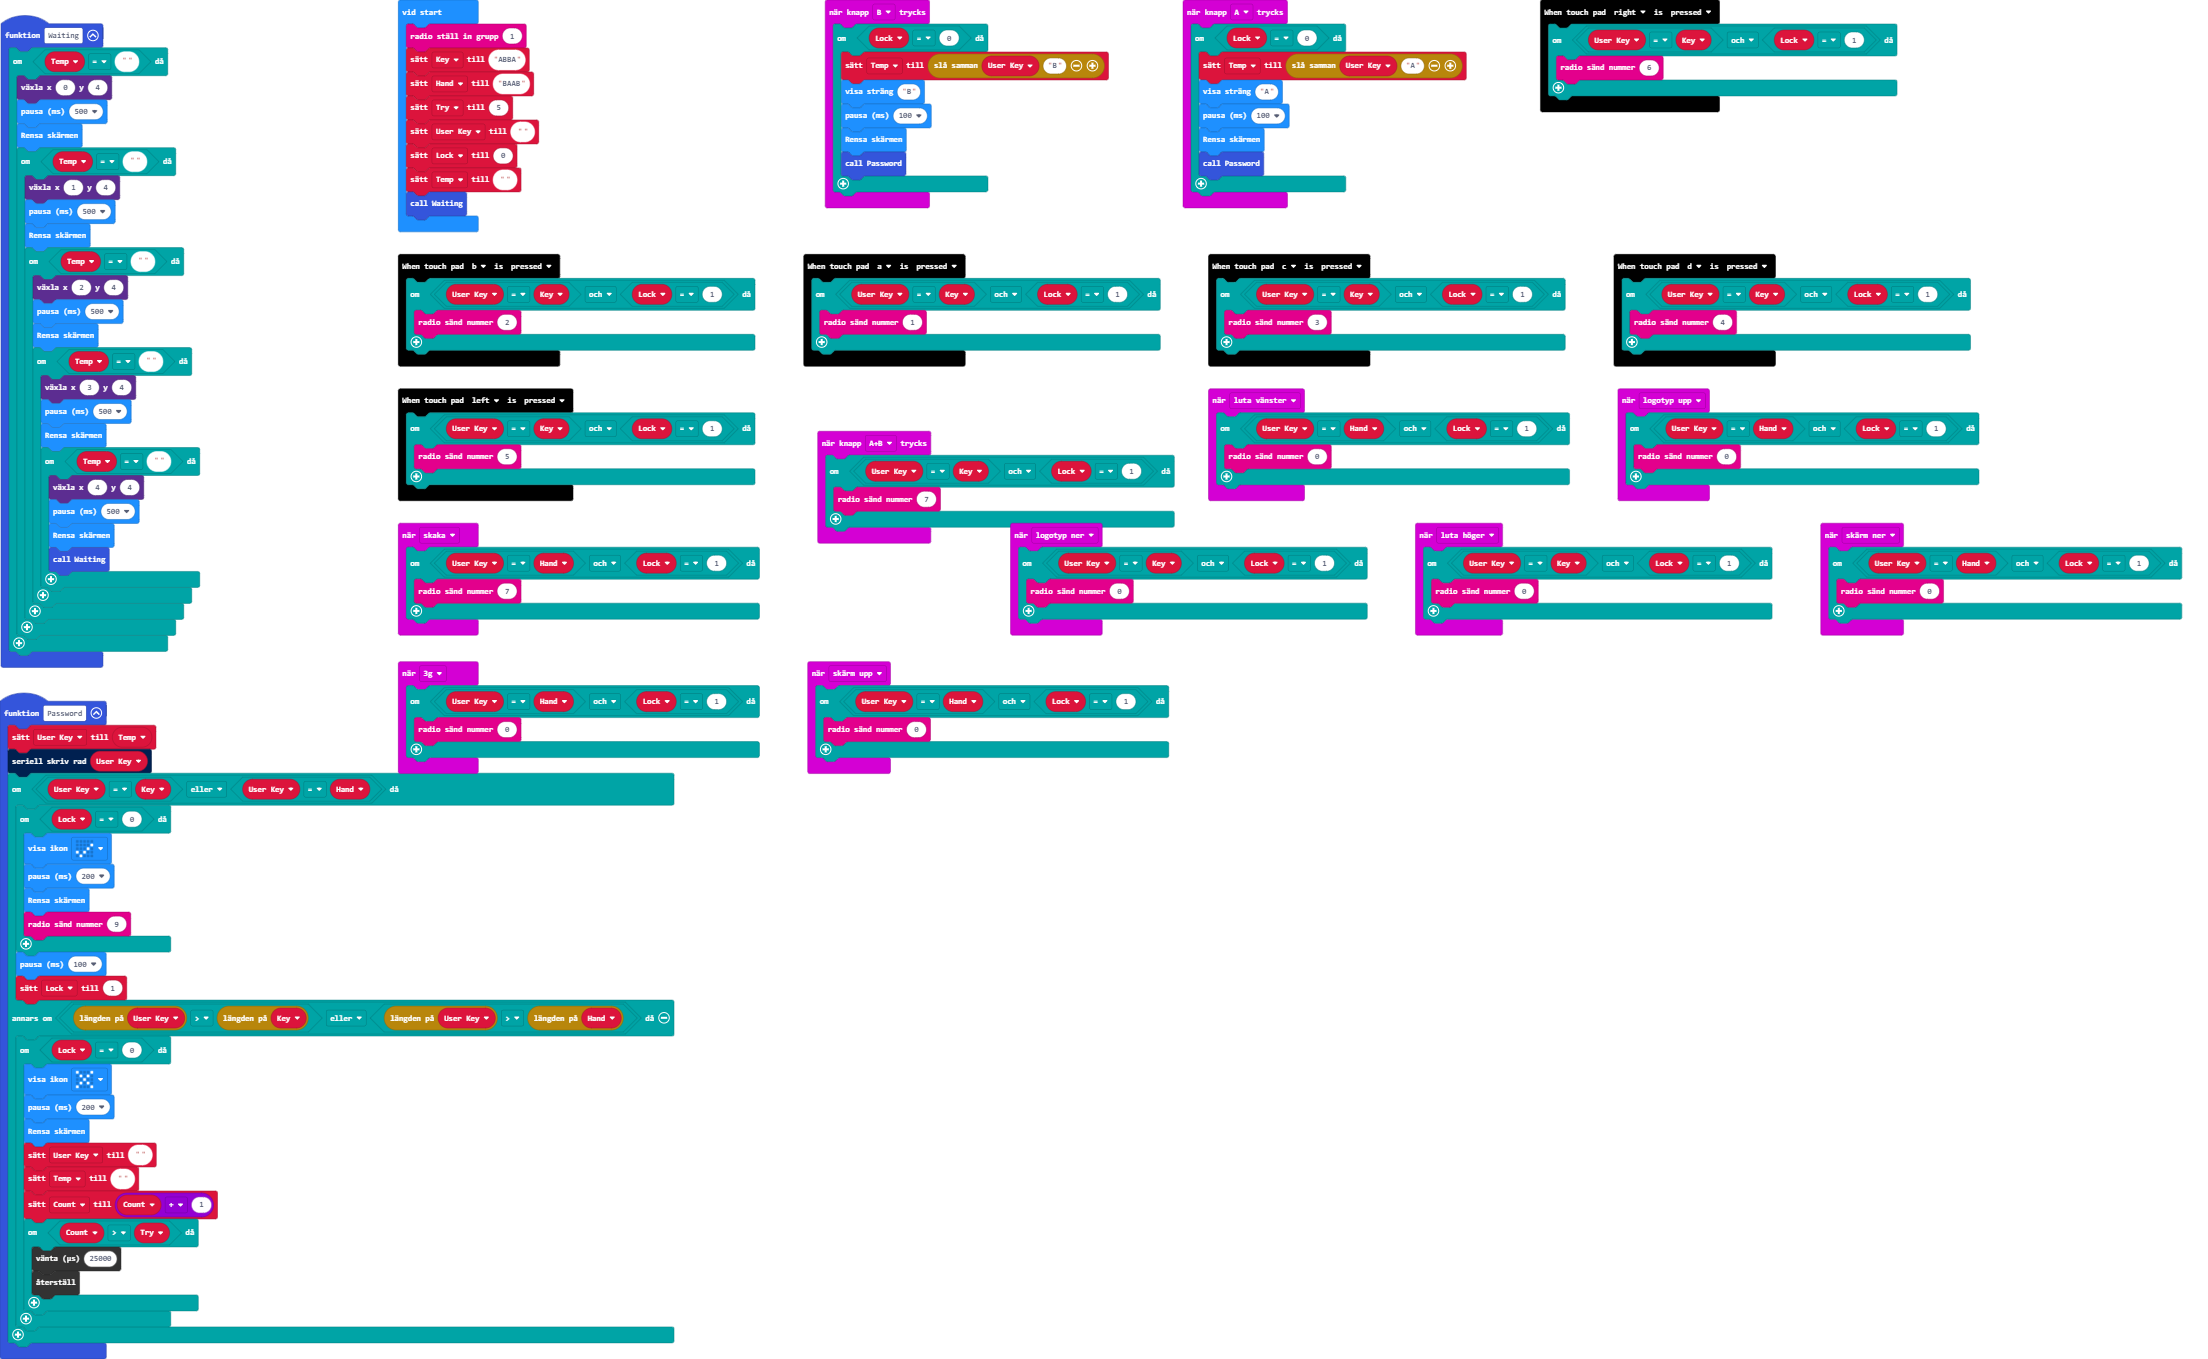
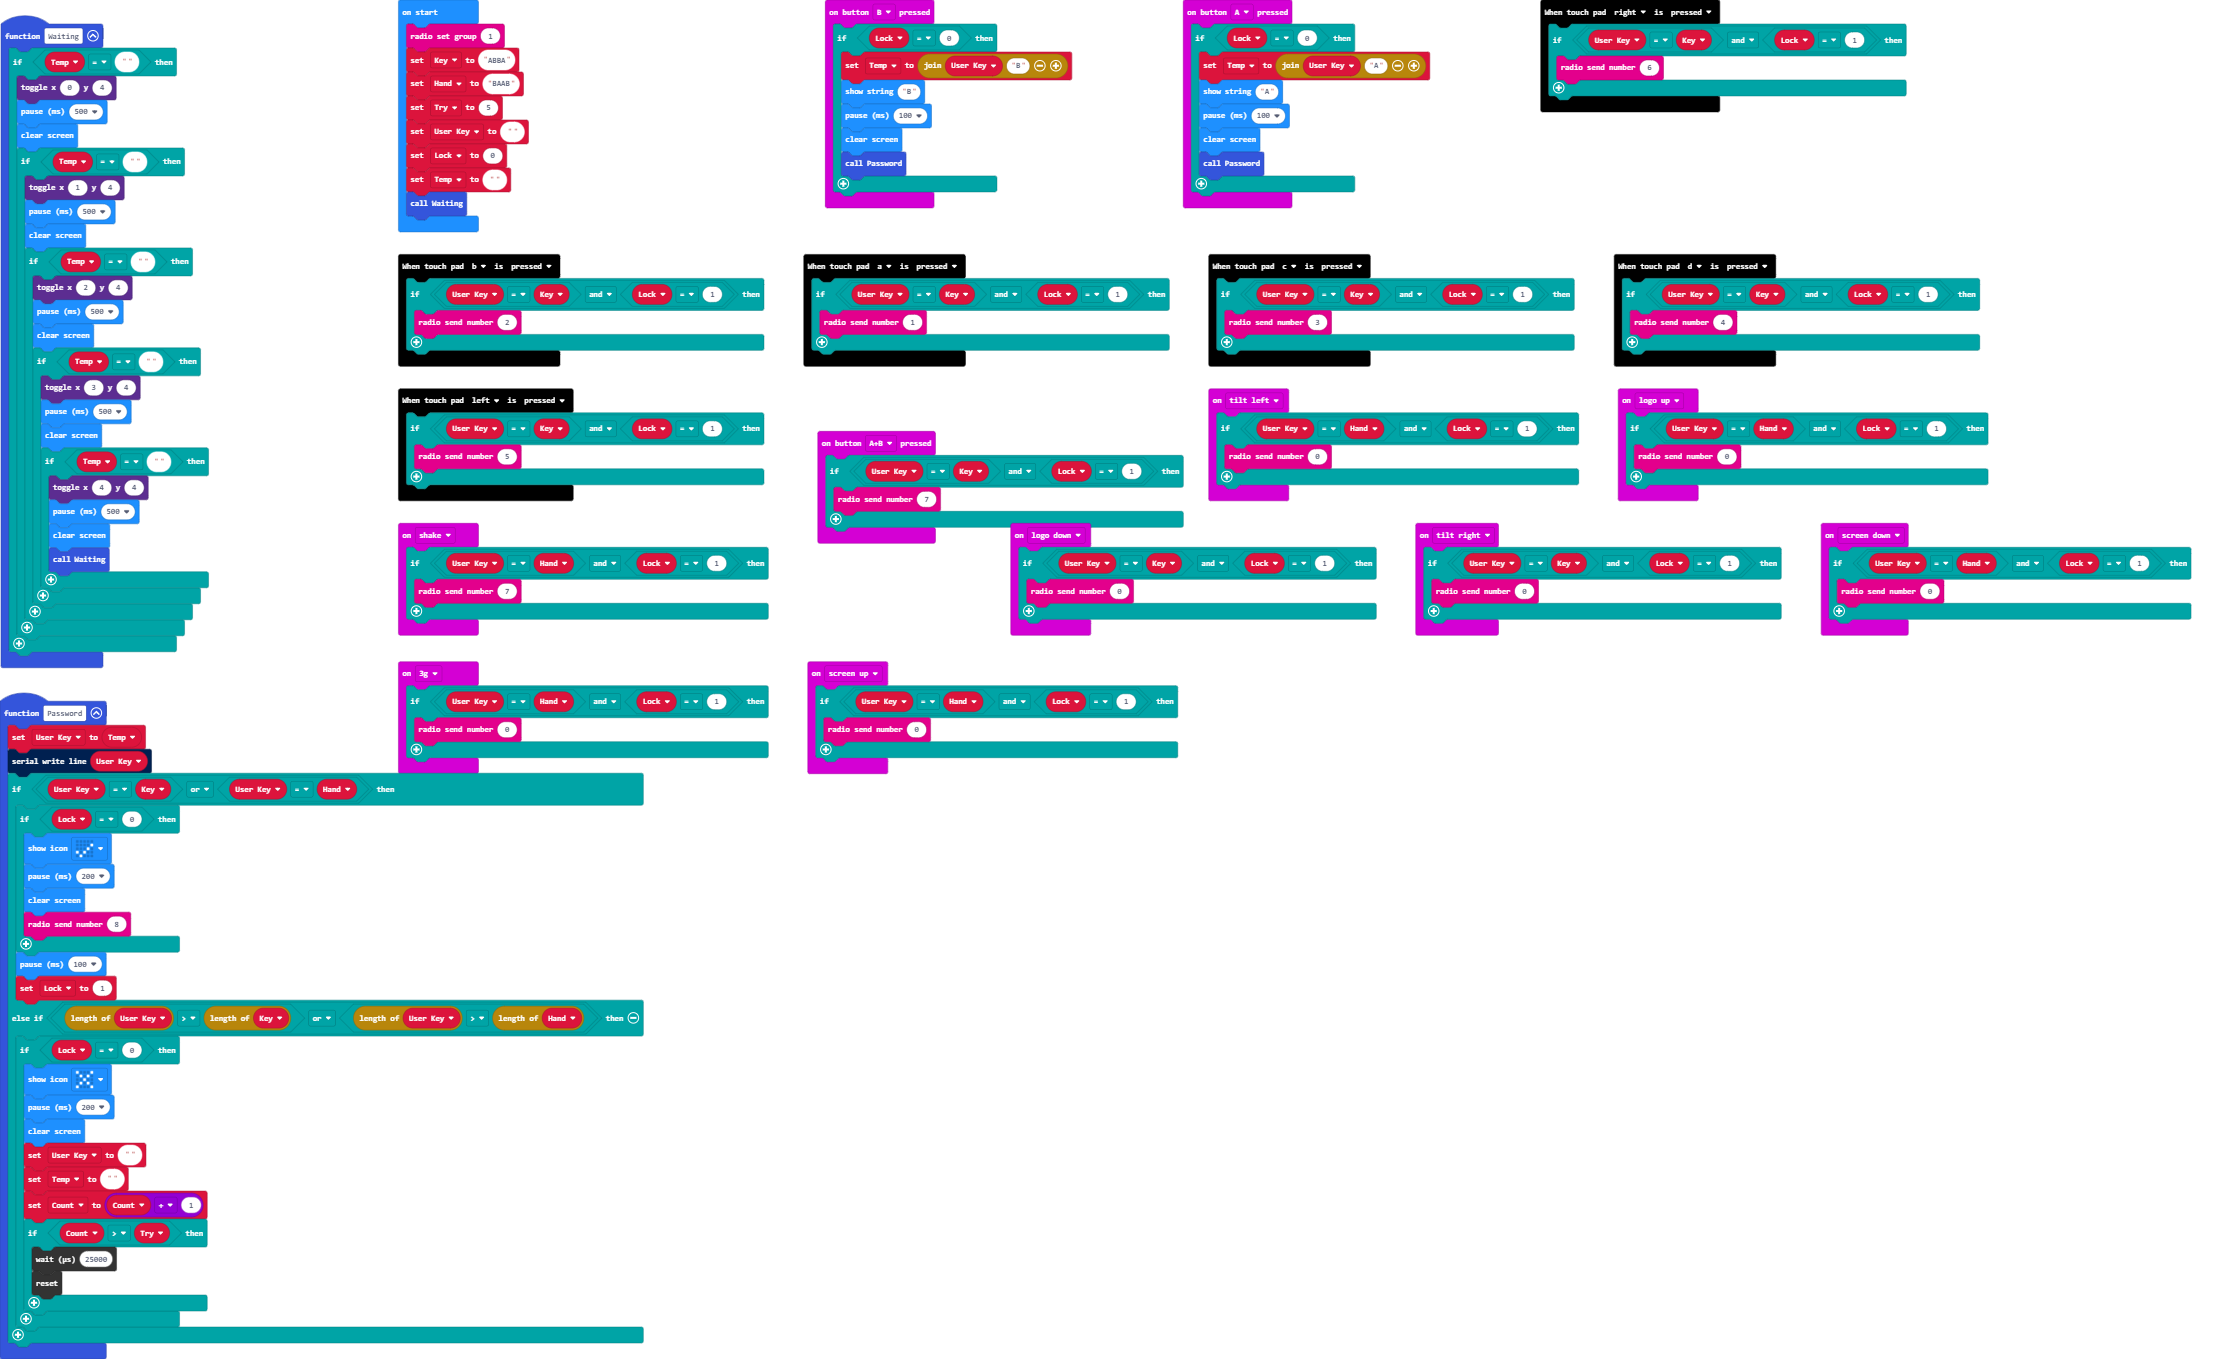
Update main.blocks, main.ts

diff --git a/main.ts b/main.ts
@@ -1,17 +1,12 @@
-input.onGesture(Gesture.TiltRight, function () {
-    if (User_Key == Key && Lock == 1) {
-        radio.sendNumber(0)
-    }
-})
 function Password () {
     User_Key = Temp
-    serial.writeLine("" + (User_Key))
+    serial.writeLine(User_Key)
     if (User_Key == Key || User_Key == Hand) {
         if (Lock == 0) {
             basic.showIcon(IconNames.Yes)
             basic.pause(200)
             basic.clearScreen()
-            radio.sendNumber(9)
+            radio.sendNumber(8)
         }
         basic.pause(100)
         Lock = 1
@@ -35,21 +30,6 @@ touchbit.on(touchbit.TouchPad.b, touchbit.TouchEvent.pressed, function () {
         radio.sendNumber(2)
     }
 })
-input.onGesture(Gesture.TiltLeft, function () {
-    if (User_Key == Hand && Lock == 1) {
-        radio.sendNumber(0)
-    }
-})
-input.onGesture(Gesture.ScreenUp, function () {
-    if (User_Key == Hand && Lock == 1) {
-        radio.sendNumber(0)
-    }
-})
-input.onGesture(Gesture.LogoUp, function () {
-    if (User_Key == Hand && Lock == 1) {
-        radio.sendNumber(0)
-    }
-})
 input.onButtonPressed(Button.A, function () {
     if (Lock == 0) {
         Temp = "" + User_Key + "A"
@@ -59,14 +39,24 @@ input.onButtonPressed(Button.A, function () {
         Password()
     }
 })
-input.onGesture(Gesture.Shake, function () {
+input.onGesture(Gesture.LogoUp, function () {
     if (User_Key == Hand && Lock == 1) {
-        radio.sendNumber(7)
+        radio.sendNumber(0)
     }
 })
 touchbit.on(touchbit.TouchPad.d, touchbit.TouchEvent.pressed, function () {
     if (User_Key == Key && Lock == 1) {
         radio.sendNumber(4)
+    }
+})
+input.onGesture(Gesture.TiltLeft, function () {
+    if (User_Key == Hand && Lock == 1) {
+        radio.sendNumber(0)
+    }
+})
+input.onGesture(Gesture.ScreenUp, function () {
+    if (User_Key == Hand && Lock == 1) {
+        radio.sendNumber(0)
     }
 })
 touchbit.on(touchbit.TouchPad.right, touchbit.TouchEvent.pressed, function () {
@@ -81,11 +71,6 @@ touchbit.on(touchbit.TouchPad.left, touchbit.TouchEvent.pressed, function () {
 })
 input.onGesture(Gesture.ScreenDown, function () {
     if (User_Key == Hand && Lock == 1) {
-        radio.sendNumber(0)
-    }
-})
-input.onGesture(Gesture.LogoDown, function () {
-    if (User_Key == Key && Lock == 1) {
         radio.sendNumber(0)
     }
 })
@@ -106,6 +91,21 @@ input.onButtonPressed(Button.B, function () {
         basic.pause(100)
         basic.clearScreen()
         Password()
+    }
+})
+input.onGesture(Gesture.Shake, function () {
+    if (User_Key == Hand && Lock == 1) {
+        radio.sendNumber(7)
+    }
+})
+input.onGesture(Gesture.TiltRight, function () {
+    if (User_Key == Key && Lock == 1) {
+        radio.sendNumber(0)
+    }
+})
+input.onGesture(Gesture.LogoDown, function () {
+    if (User_Key == Key && Lock == 1) {
+        radio.sendNumber(0)
     }
 })
 touchbit.on(touchbit.TouchPad.a, touchbit.TouchEvent.pressed, function () {
